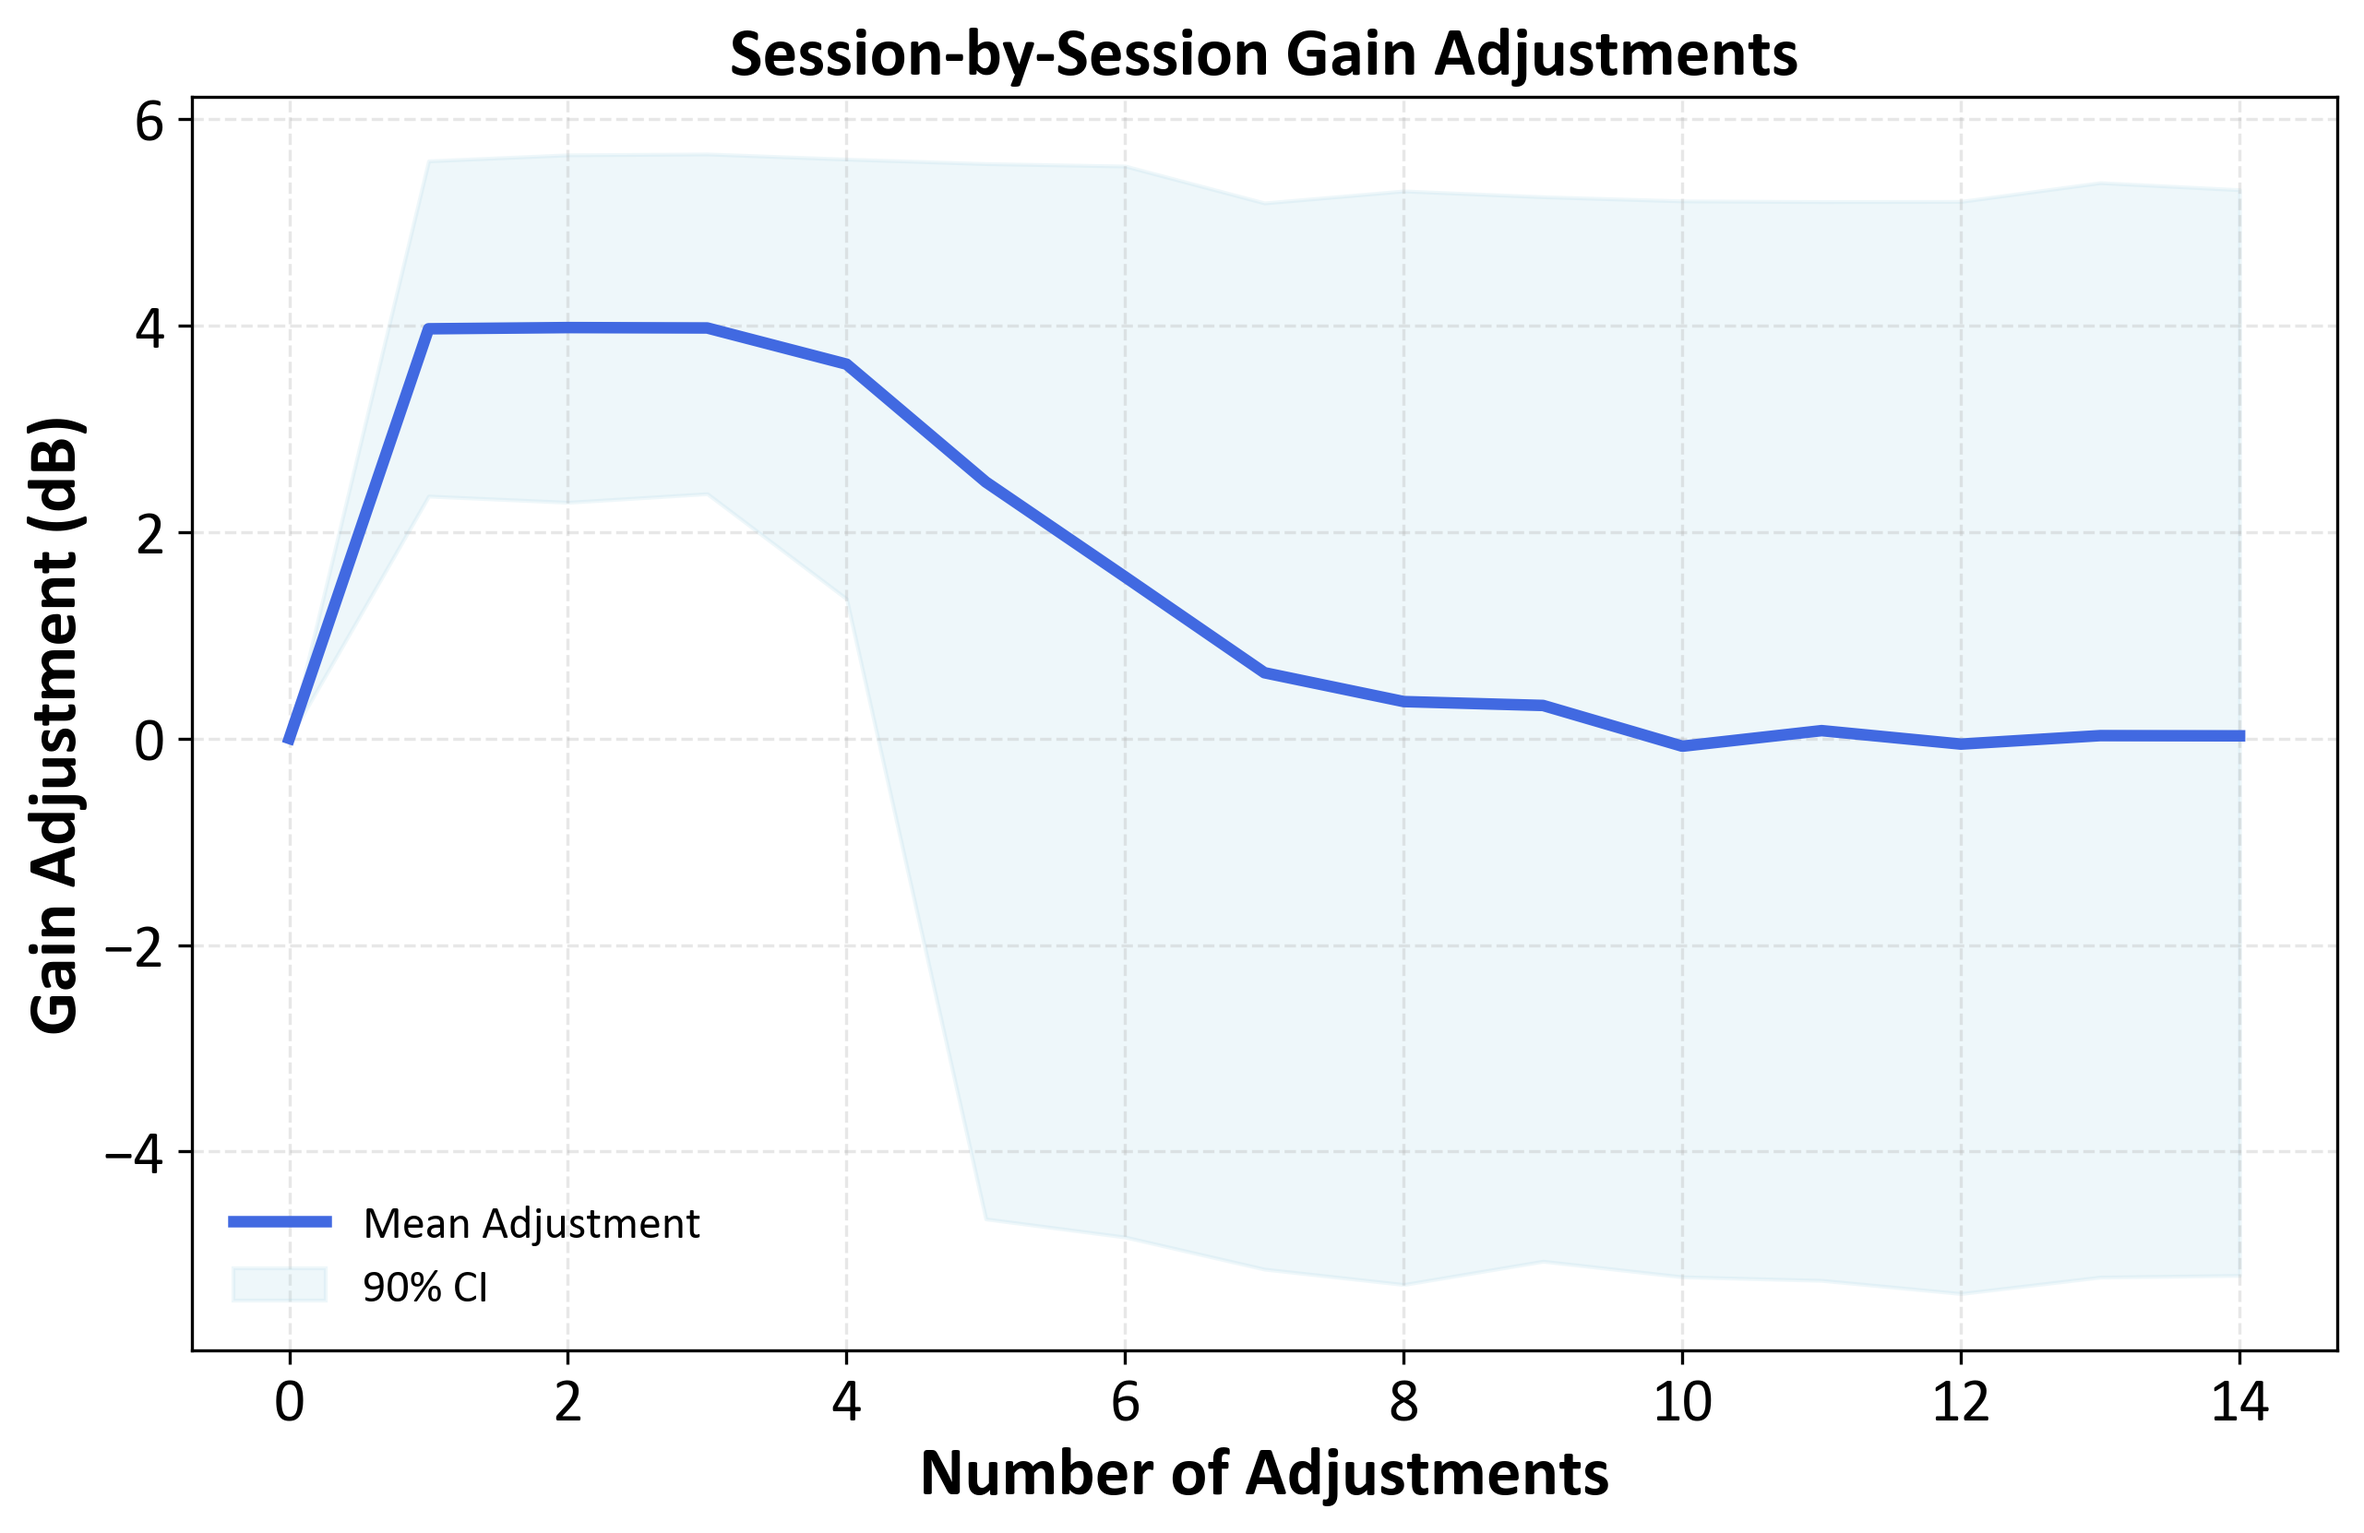
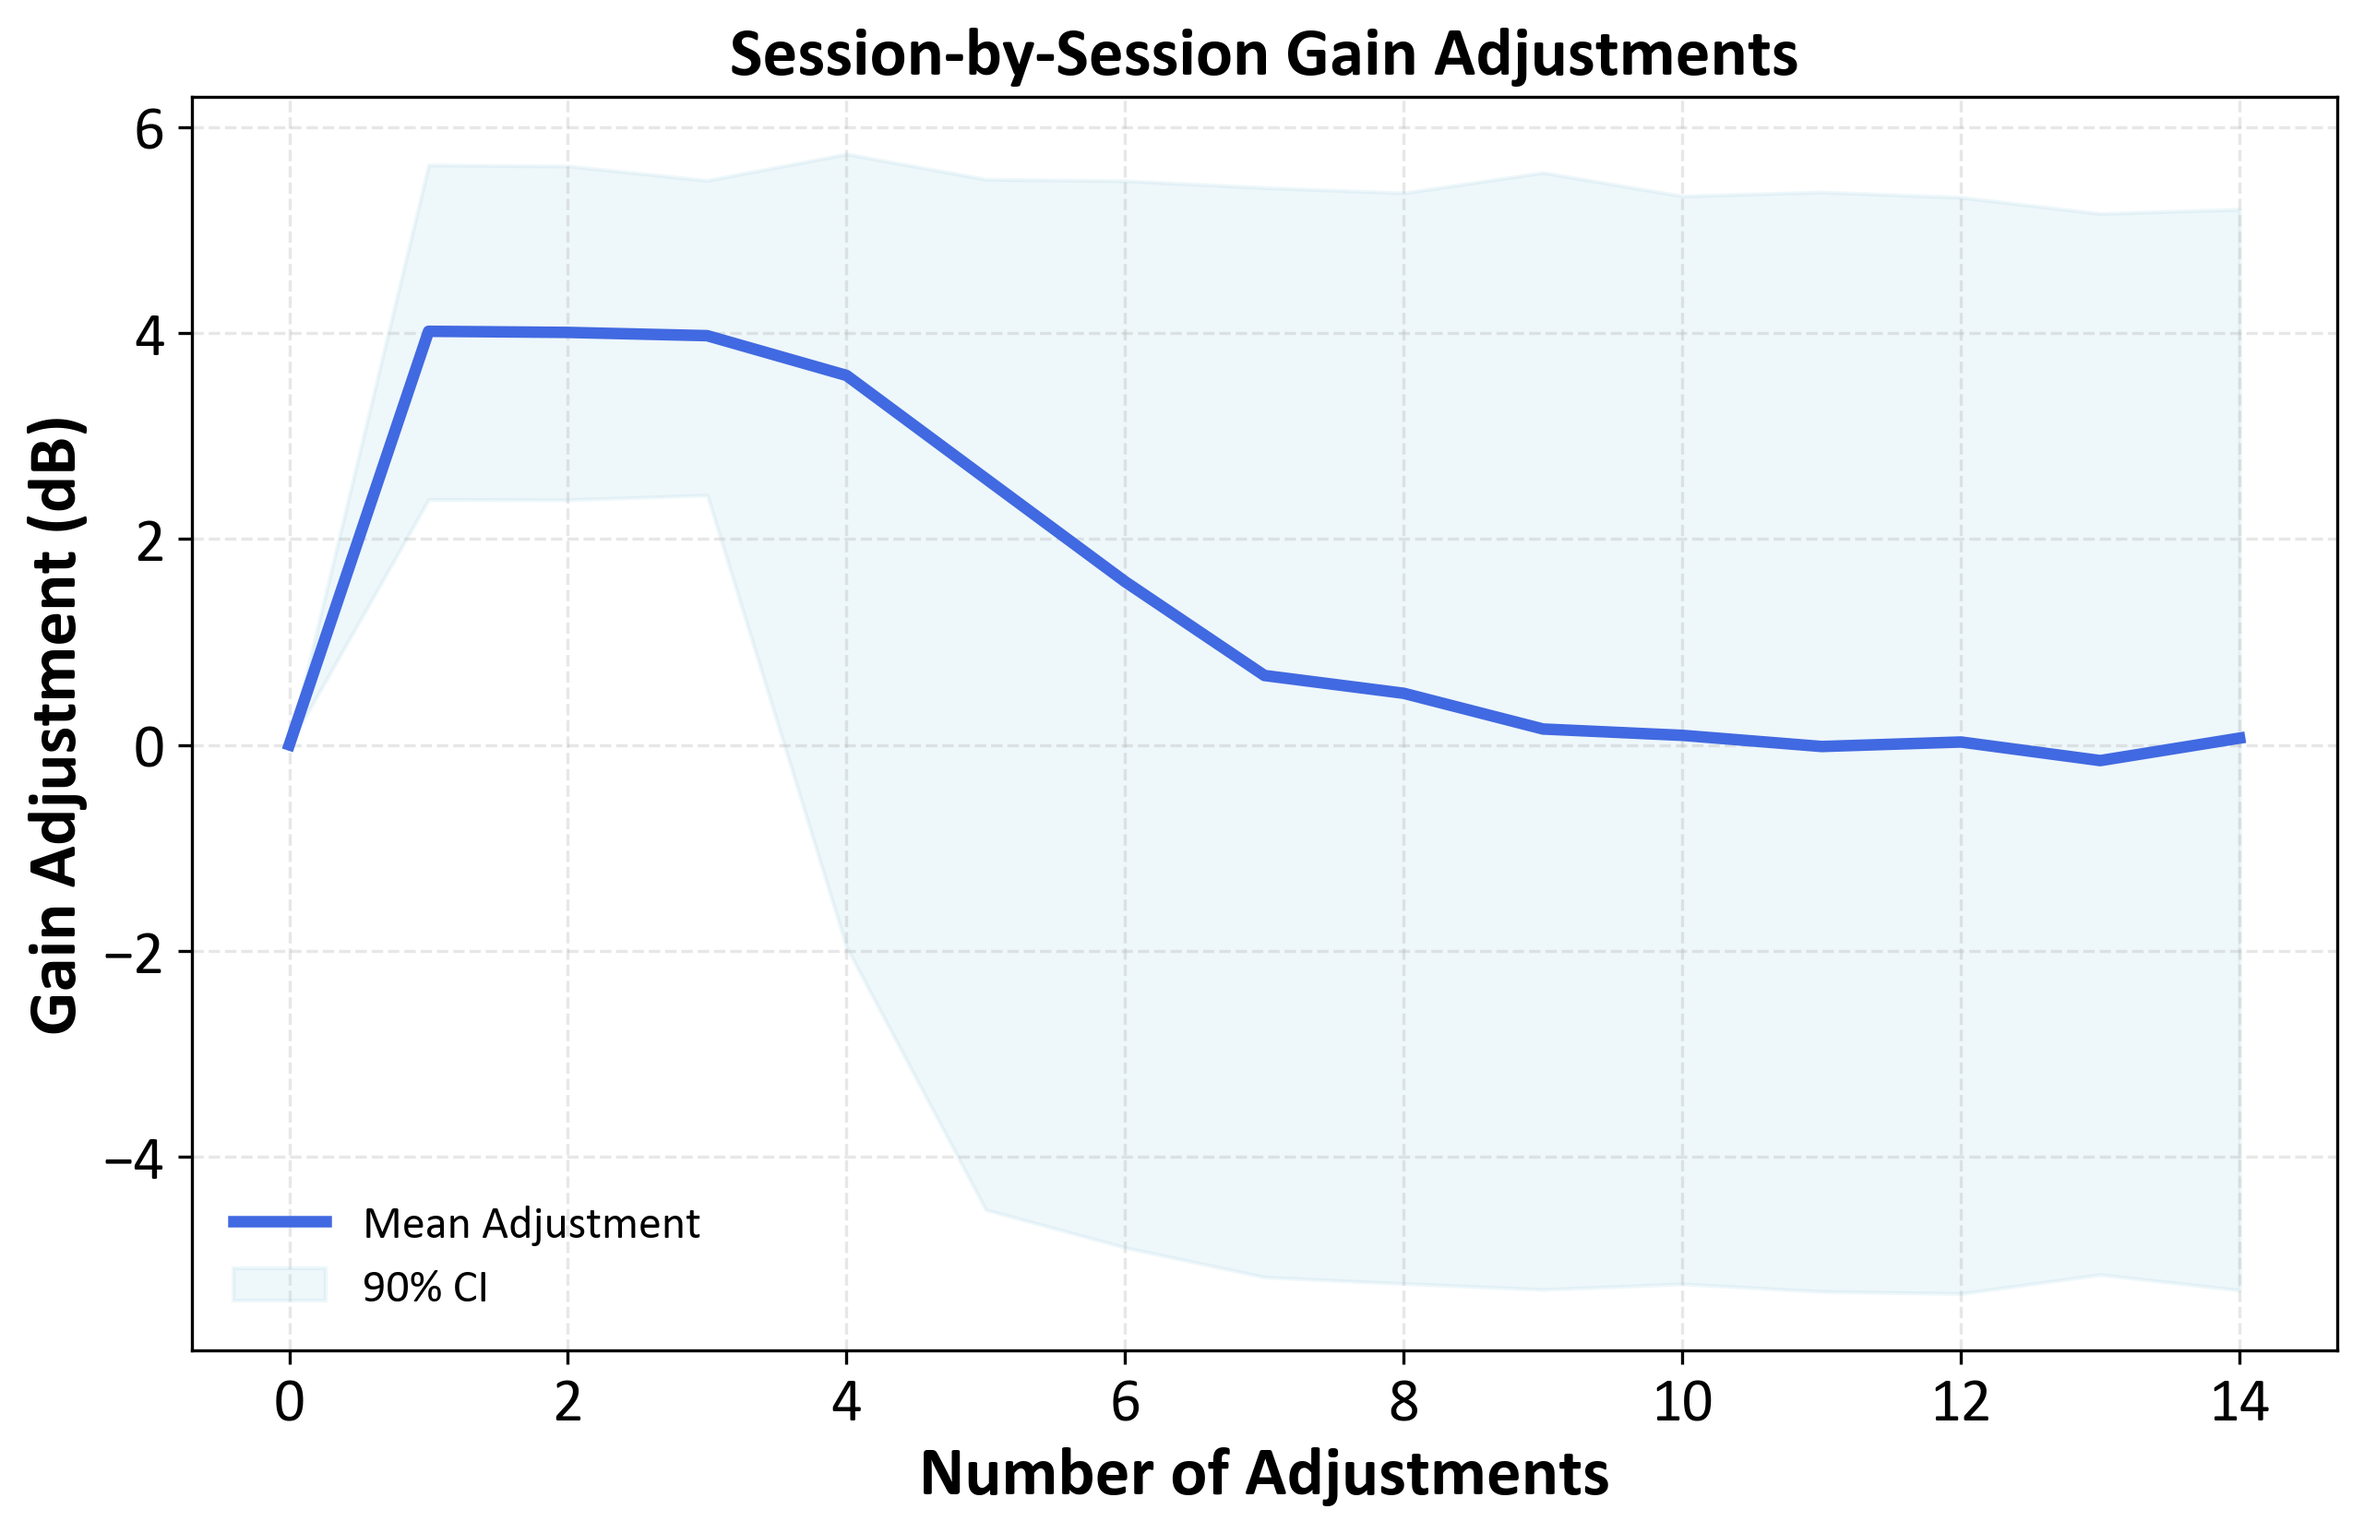
Add files via upload

diff --git a/monte_carlo_gain_adjustment.py b/monte_carlo_gain_adjustment.py
@@ -29,8 +29,8 @@ def simulate_gain_adjustment(initial_gain, preferred_gain, num_adjustments, mean
     np.array: Simulated gain adjustments over the sessions
     """
     # Array to store gain settings over time
-    gain_settings = np.zeros(num_adjustments)
-    gain_settings[0] = initial_gain
+    gain_values = np.zeros(num_adjustments)
+    gain_values[0] = initial_gain
     
     for i in range(1, num_adjustments):
         # Simulation of adjustments to gain
@@ -38,19 +38,19 @@ def simulate_gain_adjustment(initial_gain, preferred_gain, num_adjustments, mean
         adjustment = np.random.normal(mean_adjustment, std_dev_adjustment)
         
         # Determines direction of adjustment
-        direction = 1 if preferred_gain > gain_settings[i-1] else -1
+        direction = 1 if preferred_gain > gain_values[i-1] else -1
         # Gain adjustment towards prefered gain
-        gain_settings[i] = gain_settings[i-1] + direction * adjustment
+        gain_values[i] = gain_values[i-1] + direction * adjustment
         
         # Limit gain to a safe and practical range
-        gain_settings[i] = np.clip(gain_settings[i], 0, 80)
+        gain_values[i] = np.clip(gain_values[i], 0, 80)
     
-    return gain_settings
+    return gain_values
 
 ########################################################################################################################################################################
 # Monte Carlo simulation for gain adjustments with skewed preferred gain (log-normal distribution)
 ########################################################################################################################################################################
-def monte_carlo_simulation_skewed_preferred_gain(num_simulations, initial_gain, preferred_gain_mean, preferred_gain_std, num_adjustments, mean_adjustment, std_dev_adjustment):
+def monte_carlo_simulation_preferred_gain(num_simulations, initial_gain, preferred_gain_mean, preferred_gain_std, num_adjustments, mean_adjustment, std_dev_adjustment):
     """
     Perform Monte Carlo simulation for user gain adjustments with skewed preferred gain settings (log-normal distribution).
     
@@ -85,7 +85,7 @@ def monte_carlo_simulation_skewed_preferred_gain(num_simulations, initial_gain, 
 ########################################################################################################################################################################
 # Set simulation parameters
 ########################################################################################################################################################################
-initial_gain = 0  # Initial gain setting (0 to 100 scale)
+initial_gain = 0  # Initial gain setting
 preferred_gain_mean = 20  # Mean for skewed distribution (closer to 20 dB, reflecting mild hearing loss)
 preferred_gain_std = 0.3  # Standard deviation for skewed distribution (controls tail length)
 
@@ -97,31 +97,31 @@ num_simulations = 1000  # Number of simulations
 # Run the Monte Carlo simulation with skewed preferred gains
 # simulated_gain_adjustments: A 2D array where each row represents the gain adjustments for one simulation (i.e., one user) across multiple sessions.
 # preferred_gains: A 1D array of preferred gain values for each simulation (user), drawn from a log-normal distribution.
-cumulative_gain_adjustments, preferred_gains = monte_carlo_simulation_skewed_preferred_gain(num_simulations, initial_gain, preferred_gain_mean, preferred_gain_std, num_adjustments, mean_adjustment, std_dev_adjustment)
+gains, preferred_gains = monte_carlo_simulation_preferred_gain(num_simulations, initial_gain, preferred_gain_mean, preferred_gain_std, num_adjustments, mean_adjustment, std_dev_adjustment)
 
 ########################################################################################################################################################################
 # Calculate adjustments, means, delta gains
 ########################################################################################################################################################################
 # Calculate individual gain adjustments (session-by-session differences)
-gain_adjustments = np.diff(cumulative_gain_adjustments, axis=1)
+gain_adjustments = np.diff(gains, axis=1)
 # Add back the initial gain to match the original number of sessions
-initial_gains = cumulative_gain_adjustments[:, 0].reshape(-1, 1)  # Extract the initial gains for each user
+initial_gains = gains[:, 0].reshape(-1, 1)  # Extract the initial gains for each user
 gain_adjustments = np.hstack((initial_gains, gain_adjustments))  # Concatenate the initial gains with the session-by-session adjustments
 
 # Calculate the mean and percentiles for the individual gain adjustments
-adj_gain_mean = np.mean(gain_adjustments, axis=0)
-adj_gain_5 = np.percentile(gain_adjustments, 5, axis=0)
-adj_gain_95 = np.percentile(gain_adjustments, 95, axis=0)
+gain_adj_mean = np.mean(gain_adjustments, axis=0)
+gain_adj_5 = np.percentile(gain_adjustments, 5, axis=0)
+gain_adj_95 = np.percentile(gain_adjustments, 95, axis=0)
 
 # Calculate the mean and percentiles of cumulative gains from the simulations
-cum_adj_gain_mean = np.mean(cumulative_gain_adjustments, axis=0)
-cum_adj_gain_5 = np.percentile(cumulative_gain_adjustments, 5, axis=0)
-cum_adj_gain_95 = np.percentile(cumulative_gain_adjustments, 95, axis=0)
+cum_gain_adj_mean = np.mean(gains, axis=0)
+cum_gain_adj_5 = np.percentile(gains, 5, axis=0)
+cum_gain_adj_95 = np.percentile(gains, 95, axis=0)
 
 # Calculate the delta gain (change from preferred gain)
-delta_gain_mean = np.mean(cumulative_gain_adjustments - preferred_gains[:, None], axis=0)
-delta_gain_5 = np.percentile(cumulative_gain_adjustments - preferred_gains[:, None], 5, axis=0)
-delta_gain_95 = np.percentile(cumulative_gain_adjustments - preferred_gains[:, None], 95, axis=0)
+delta_gain_mean = np.mean(gains - preferred_gains[:, None], axis=0)
+delta_gain_5 = np.percentile(gains - preferred_gains[:, None], 5, axis=0)
+delta_gain_95 = np.percentile(gains - preferred_gains[:, None], 95, axis=0)
 
 ########################################################################################################################################################################
 # Plot histogram of preferred gains
@@ -156,7 +156,7 @@ plt.legend(loc='lower right', fontsize=12, frameon=False, framealpha=0.1)
 plt.grid(True, linestyle='--', alpha=0.3)
 
 # Save and show the figure
-plt.savefig(folder+'mc_convergence_plot.png', dpi=300, bbox_inches='tight')
+plt.savefig(folder+'mc_convergence.png', dpi=300, bbox_inches='tight')
 plt.show()
 
 ########################################################################################################################################################################
@@ -164,9 +164,9 @@ plt.show()
 ########################################################################################################################################################################
 plt.figure(figsize=(10, 6))
 # Plot the mean individual gain adjustment
-plt.plot(adj_gain_mean, label="Mean Adjustment", color="#4169E1", lw=3)
+plt.plot(gain_adj_mean, label="Mean Adjustment", color="#4169E1", lw=3)
 # Fill between the 5th and 95th percentiles for the confidence interval
-plt.fill_between(range(num_adjustments), adj_gain_5, adj_gain_95, color='lightblue', alpha=0.2, label="90% CI")
+plt.fill_between(range(num_adjustments), gain_adj_5, gain_adj_95, color='lightblue', alpha=0.2, label="90% CI")
 # Update title and labels
 plt.title("Session-by-Session Gain Adjustments", fontsize=18, fontweight='bold')
 plt.xlabel("Number of Adjustments", fontsize=18, fontweight='bold')
@@ -178,5 +178,5 @@ plt.legend(loc='lower left', fontsize=12, frameon=False, framealpha=0.1)
 plt.grid(True, linestyle='--', alpha=0.3)
 
 # Save and show the updated figure
-plt.savefig(folder+'mc_adjustments_plot.png', dpi=300, bbox_inches='tight')
+plt.savefig(folder+'mc_adjustments.png', dpi=300, bbox_inches='tight')
 plt.show()
